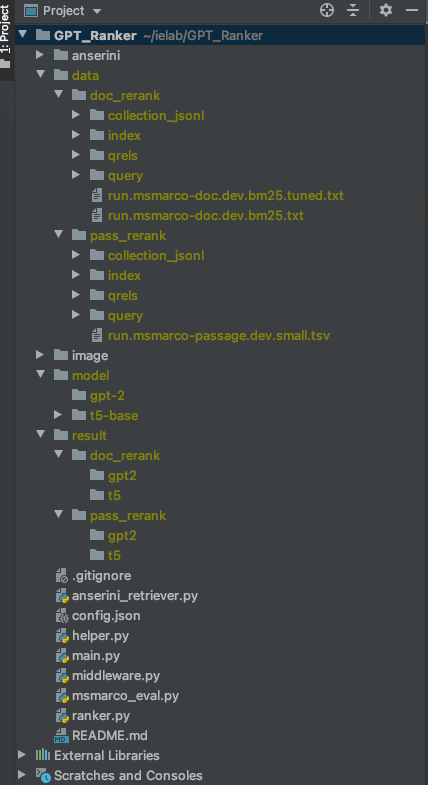
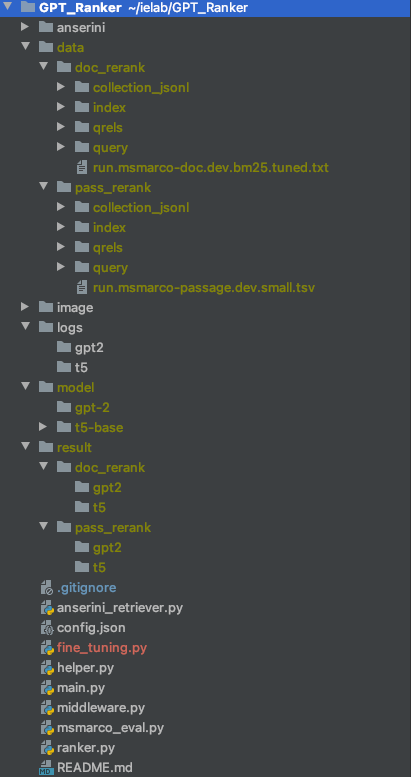
add fine tune example

Changed region(s): [[0.0, 0.0, 1.0, 1.0], [0.7007, 0.3398, 0.7299, 0.3707]]

diff --git a/fine_tuning.py b/fine_tuning.py
@@ -1,0 +1,63 @@
+# from transformers import *
+#
+# special_token_dict = {
+#     'bos_token': '<BOS>',
+#     'eos_token': '<EOS>',
+#     'pad_token': '<PAD>'
+# }
+#
+# tokenizer = GPT2Tokenizer.from_pretrained('gpt2-large')
+# model = GPT2LMHeadModel.from_pretrained('gpt2-large')
+#
+# tokenizer.add_special_tokens(special_token_dict)
+# model.resize_token_embeddings(len(tokenizer))
+#
+
+from transformers import GPT2LMHeadModel, GPT2Tokenizer, Trainer, TrainingArguments
+from torch.utils.data import TensorDataset, random_split
+import torch
+
+model = GPT2LMHeadModel.from_pretrained('gpt2-large')
+tokenizer = GPT2Tokenizer.from_pretrained('gpt2-large')
+
+input_ids = []
+attention_masks = []
+labels = [0, 1]
+
+training_args = TrainingArguments(
+    output_dir='./model/gpt-2',
+    num_train_epochs=3,
+    per_device_train_batch_size=16,
+    per_device_eval_batch_size=64,
+    warmup_steps=500,
+    weight_decay=0.01,
+    logging_dir='./logs/gpt2'
+)
+
+for sent in ["hello, this is a cat", "hello this is a dog"]:
+    encoded_dict = tokenizer.encode_plus(
+        sent,
+        add_special_tokens=True,
+        max_length=64,
+        pad_to_max_length=True,
+        return_attention_mask=True,
+        return_tensors='pt'
+    )
+    input_ids.append(encoded_dict['input_ids'])
+    attention_masks.append(encoded_dict['attention_mask'])
+input_ids = torch.cat(input_ids, dim=0)
+attention_masks = torch.cat(attention_masks, dim=0)
+labels = torch.tensor(labels)
+
+train_dataset = TensorDataset(input_ids, attention_masks, labels)
+eval_dataset = TensorDataset(input_ids, attention_masks, labels)
+
+trainer = Trainer(
+    model=model,
+    args=training_args,
+    train_dataset=train_dataset,
+    eval_dataset=eval_dataset
+)
+
+trainer.train()
+trainer.evaluate()
